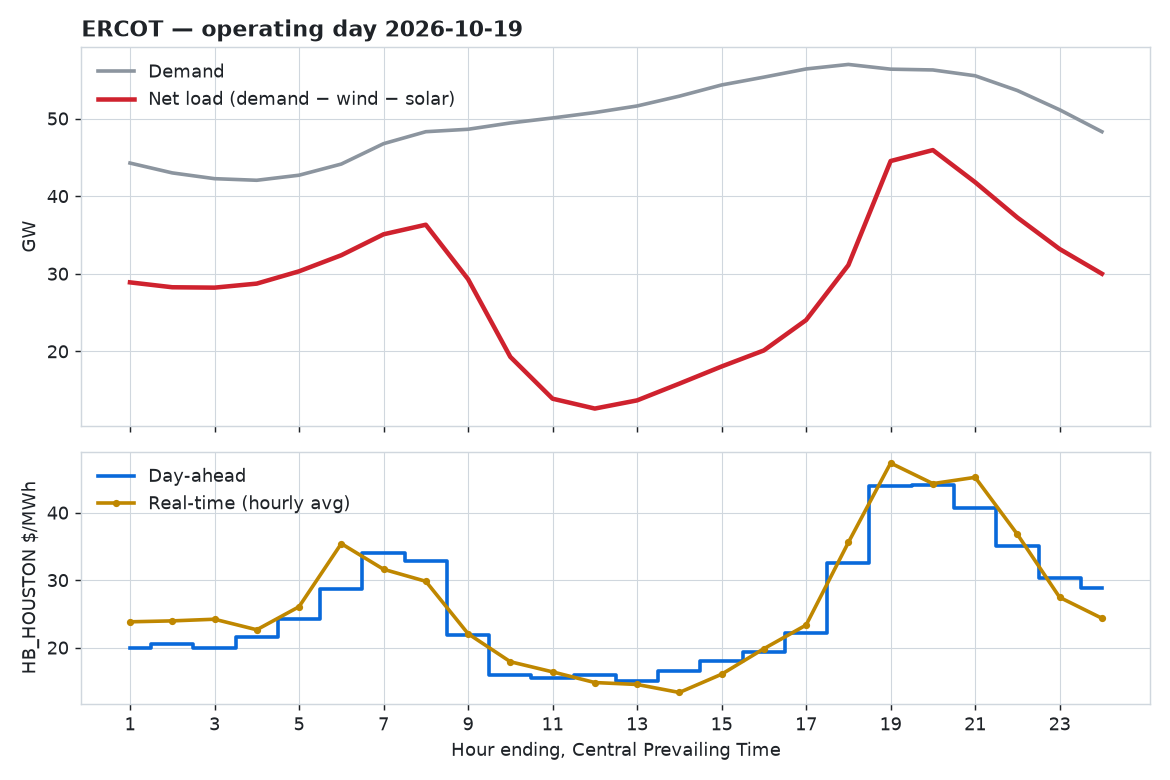
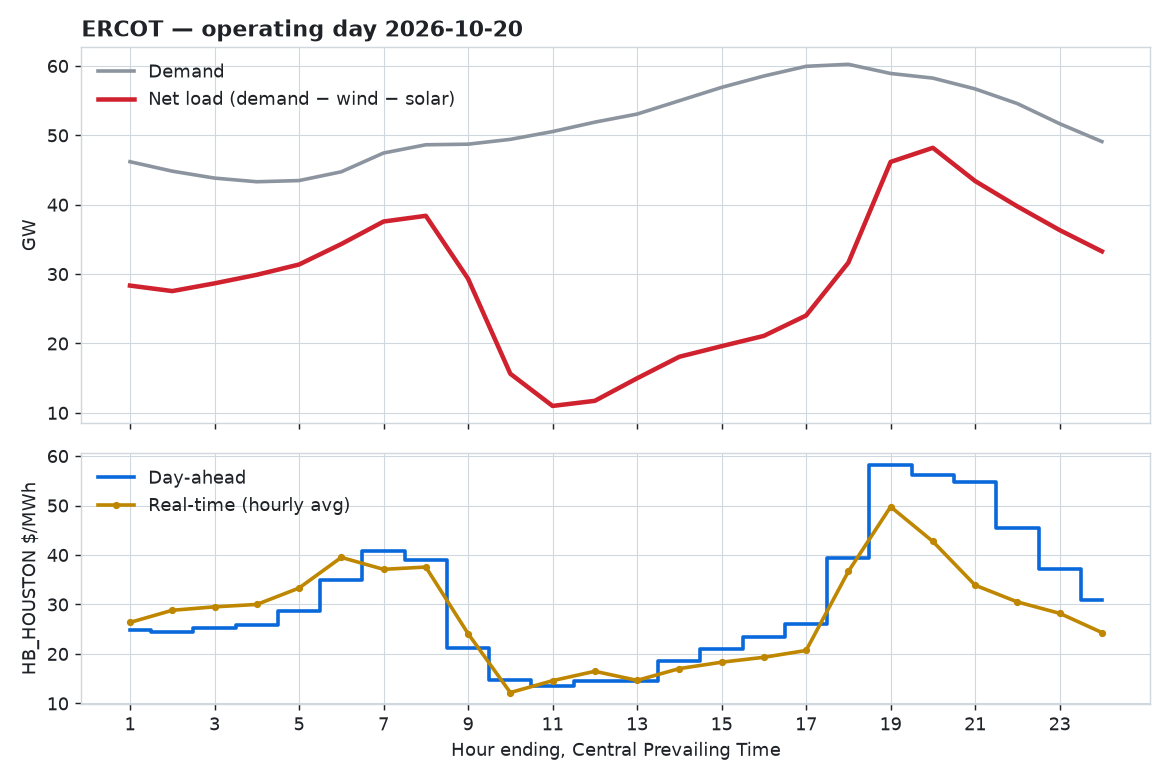
Recap for operating day 2026-10-20

diff --git a/README.md b/README.md
@@ -6,16 +6,16 @@ Yesterday in ERCOT, updated every morning: demand, net load (demand minus
 wind and solar), and the day-ahead versus real-time price at the Houston hub.
 
 <!-- RECAP:START -->
-**Operating day 2026-10-19** (hours ending, Central Prevailing Time)
+**Operating day 2026-10-20** (hours ending, Central Prevailing Time)
 
 <picture>
   <source media="(prefers-color-scheme: dark)" srcset="reports/latest-dark.png">
   <img alt="Yesterday's ERCOT demand, net load and Houston hub prices" src="reports/latest-light.png">
 </picture>
 
-- Demand peaked at **HE18** at 57.0 GW; net load peaked at **HE20** at 45.9 GW.
-- Evening ramp: net load rose **17.8 GW** from HE17 to HE21.
-- HB_HOUSTON: day-ahead averaged \$25.75/MWh, real-time \$26.54/MWh. Widest real-time minus day-ahead spread: **+\$6.72** at HE06.
+- Demand peaked at **HE18** at 60.2 GW; net load peaked at **HE20** at 48.2 GW.
+- Evening ramp: net load rose **19.4 GW** from HE17 to HE21.
+- HB_HOUSTON: day-ahead averaged \$30.57/MWh, real-time \$27.74/MWh. Widest real-time minus day-ahead spread: **−\$20.86** at HE21.
 <!-- RECAP:END -->
 
 ## Why net load
